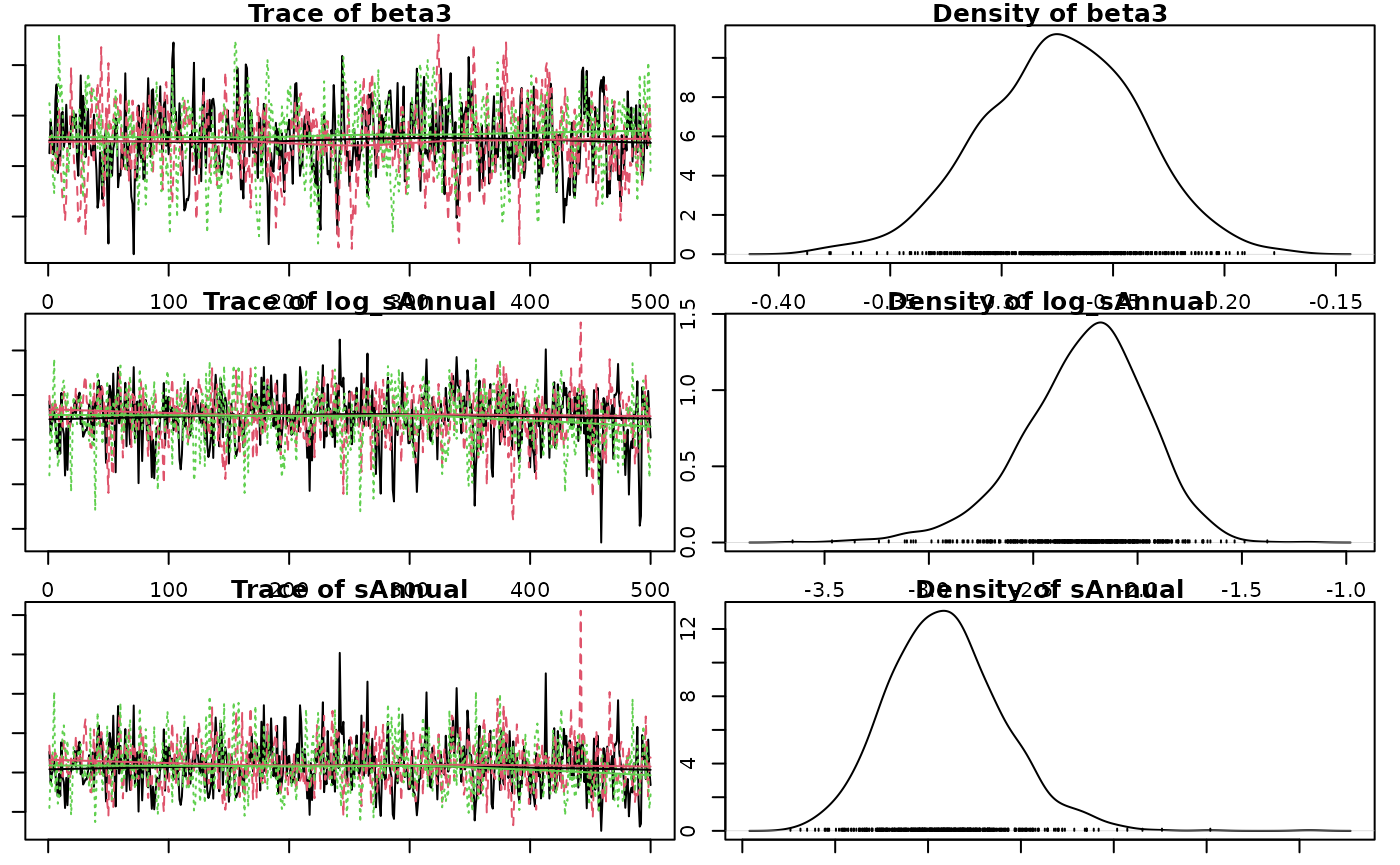
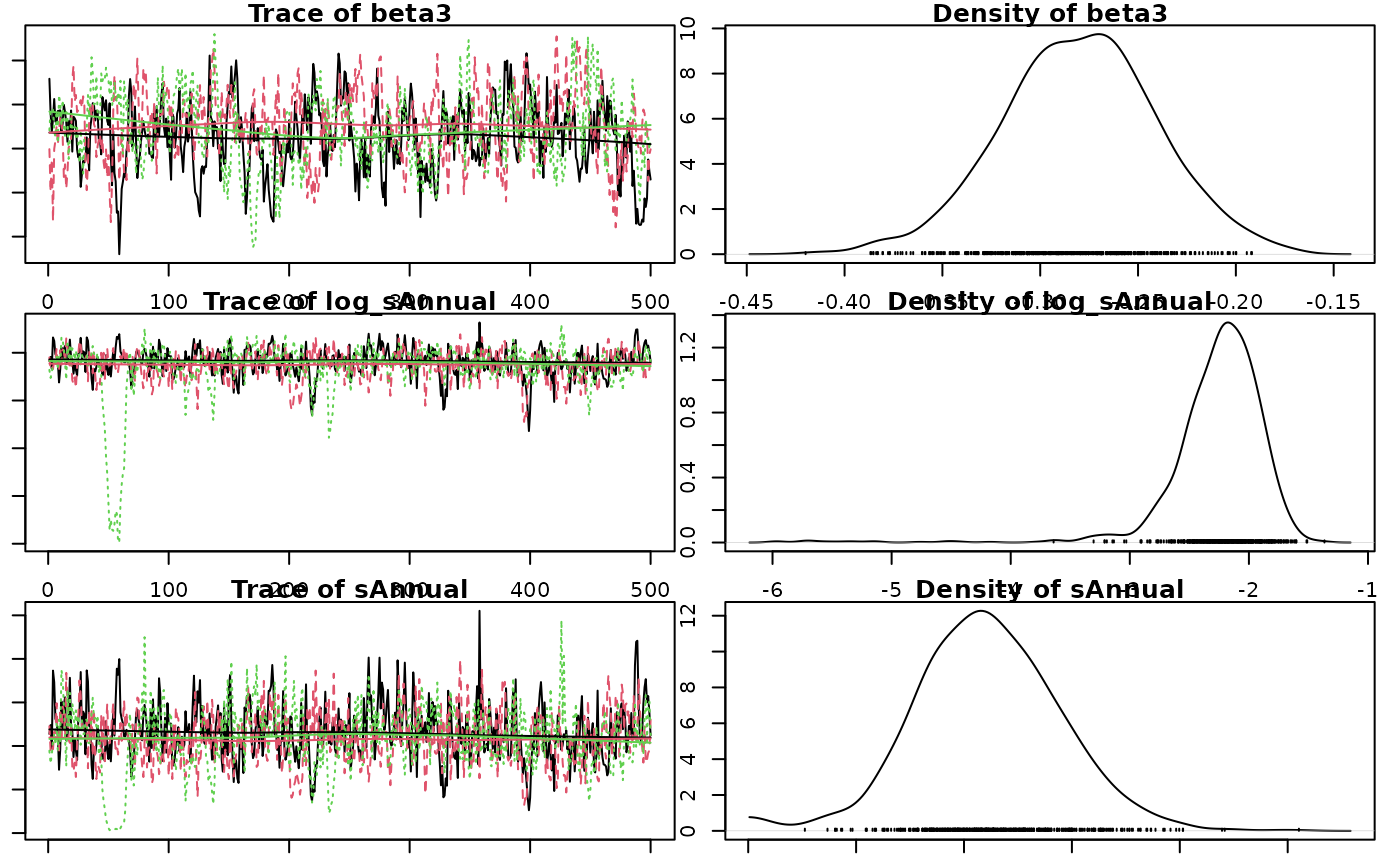
Built site for jmbr@0.0.0.9143: a37af6b

diff --git a/articles/jmbr.html b/articles/jmbr.html
@@ -285,14 +285,14 @@ value and discarding all other values.</p>
 <span><span class="co">#&gt; <span style="color: #949494;"># A tibble: 1 × 8</span></span></span>
 <span><span class="co">#&gt;       n     K nchains niters nthin   ess  rhat converged</span></span>
 <span><span class="co">#&gt;   <span style="color: #949494; font-style: italic;">&lt;int&gt;</span> <span style="color: #949494; font-style: italic;">&lt;int&gt;</span>   <span style="color: #949494; font-style: italic;">&lt;int&gt;</span>  <span style="color: #949494; font-style: italic;">&lt;int&gt;</span> <span style="color: #949494; font-style: italic;">&lt;int&gt;</span> <span style="color: #949494; font-style: italic;">&lt;int&gt;</span> <span style="color: #949494; font-style: italic;">&lt;dbl&gt;</span> <span style="color: #949494; font-style: italic;">&lt;lgl&gt;</span>    </span></span>
-<span><span class="co">#&gt; <span style="color: #BCBCBC;">1</span>    40     6       3    500    10   154  1.18 FALSE</span></span>
+<span><span class="co">#&gt; <span style="color: #BCBCBC;">1</span>    40     6       3    500    10   194  1.02 TRUE</span></span>
 <span><span class="co">#&gt; Warning in value[[3L]](cond): beep() could not play the sound due to the following error:</span></span>
 <span><span class="co">#&gt; Error in play.default(x, rate, ...): no audio drivers are available</span></span>
 <span><span class="va">analysis</span> <span class="op">&lt;-</span> <span class="fu"><a href="https://rdrr.io/pkg/embr/man/reanalyse.html" class="external-link">reanalyse</a></span><span class="op">(</span><span class="va">analysis</span><span class="op">)</span></span>
 <span><span class="co">#&gt; <span style="color: #949494;"># A tibble: 1 × 8</span></span></span>
 <span><span class="co">#&gt;       n     K nchains niters nthin   ess  rhat converged</span></span>
 <span><span class="co">#&gt;   <span style="color: #949494; font-style: italic;">&lt;int&gt;</span> <span style="color: #949494; font-style: italic;">&lt;int&gt;</span>   <span style="color: #949494; font-style: italic;">&lt;int&gt;</span>  <span style="color: #949494; font-style: italic;">&lt;int&gt;</span> <span style="color: #949494; font-style: italic;">&lt;int&gt;</span> <span style="color: #949494; font-style: italic;">&lt;int&gt;</span> <span style="color: #949494; font-style: italic;">&lt;dbl&gt;</span> <span style="color: #949494; font-style: italic;">&lt;lgl&gt;</span>    </span></span>
-<span><span class="co">#&gt; <span style="color: #BCBCBC;">1</span>    40     6       3    500    20   507  1.00 TRUE</span></span>
+<span><span class="co">#&gt; <span style="color: #BCBCBC;">1</span>    40     6       3    500    10   194  1.02 TRUE</span></span>
 <span><span class="co">#&gt; Warning in value[[3L]](cond): beep() could not play the sound due to the following error:</span></span>
 <span><span class="co">#&gt; Error in play.default(x, rate, ...): no audio drivers are available</span></span></code></pre></div>
 <p><strong>Analysis Table:</strong></p>
@@ -342,12 +342,12 @@ between- and within-chain estimates for model parameters.
 <span><span class="co">#&gt; <span style="color: #949494;"># A tibble: 6 × 7</span></span></span>
 <span><span class="co">#&gt;   term        estimate     sd  zscore   lower   upper   pvalue</span></span>
 <span><span class="co">#&gt;   <span style="color: #949494; font-style: italic;">&lt;term&gt;</span>         <span style="color: #949494; font-style: italic;">&lt;dbl&gt;</span>  <span style="color: #949494; font-style: italic;">&lt;dbl&gt;</span>   <span style="color: #949494; font-style: italic;">&lt;dbl&gt;</span>   <span style="color: #949494; font-style: italic;">&lt;dbl&gt;</span>   <span style="color: #949494; font-style: italic;">&lt;dbl&gt;</span>    <span style="color: #949494; font-style: italic;">&lt;dbl&gt;</span></span></span>
-<span><span class="co">#&gt; <span style="color: #BCBCBC;">1</span> alpha         4.26   0.041<span style="text-decoration: underline;">5</span> 103.     4.18    4.34   0.000<span style="text-decoration: underline;">666</span></span></span>
-<span><span class="co">#&gt; <span style="color: #BCBCBC;">2</span> beta1         1.19   0.069<span style="text-decoration: underline;">5</span>  17.2    1.06    1.34   0.000<span style="text-decoration: underline;">666</span></span></span>
-<span><span class="co">#&gt; <span style="color: #BCBCBC;">3</span> beta2        -<span style="color: #BB0000;">0.018</span><span style="color: #BB0000; text-decoration: underline;">0</span> 0.031<span style="text-decoration: underline;">6</span>  -<span style="color: #BB0000;">0.561</span> -<span style="color: #BB0000;">0.076</span><span style="color: #BB0000; text-decoration: underline;">3</span>  0.045<span style="text-decoration: underline;">2</span> 0.566   </span></span>
-<span><span class="co">#&gt; <span style="color: #BCBCBC;">4</span> beta3        -<span style="color: #BB0000;">0.273</span>  0.035<span style="text-decoration: underline;">2</span>  -<span style="color: #BB0000;">7.77</span>  -<span style="color: #BB0000;">0.344</span>  -<span style="color: #BB0000;">0.207</span>  0.000<span style="text-decoration: underline;">666</span></span></span>
-<span><span class="co">#&gt; <span style="color: #BCBCBC;">5</span> log_sAnnual  -<span style="color: #BB0000;">2.22</span>   0.298   -<span style="color: #BB0000;">7.57</span>  -<span style="color: #BB0000;">2.92</span>   -<span style="color: #BB0000;">1.73</span>   0.000<span style="text-decoration: underline;">666</span></span></span>
-<span><span class="co">#&gt; <span style="color: #BCBCBC;">6</span> sAnnual       0.108  0.031<span style="text-decoration: underline;">1</span>   3.52   0.054<span style="text-decoration: underline;">0</span>  0.178  0.000<span style="text-decoration: underline;">666</span></span></span></code></pre></div>
+<span><span class="co">#&gt; <span style="color: #BCBCBC;">1</span> alpha         4.26   0.042<span style="text-decoration: underline;">2</span> 101.     4.17    4.33   0.000<span style="text-decoration: underline;">666</span></span></span>
+<span><span class="co">#&gt; <span style="color: #BCBCBC;">2</span> beta1         1.21   0.077<span style="text-decoration: underline;">4</span>  15.6    1.06    1.36   0.000<span style="text-decoration: underline;">666</span></span></span>
+<span><span class="co">#&gt; <span style="color: #BCBCBC;">3</span> beta2        -<span style="color: #BB0000;">0.017</span><span style="color: #BB0000; text-decoration: underline;">5</span> 0.030<span style="text-decoration: underline;">9</span>  -<span style="color: #BB0000;">0.544</span> -<span style="color: #BB0000;">0.077</span><span style="color: #BB0000; text-decoration: underline;">4</span>  0.047<span style="text-decoration: underline;">0</span> 0.584   </span></span>
+<span><span class="co">#&gt; <span style="color: #BCBCBC;">4</span> beta3        -<span style="color: #BB0000;">0.279</span>  0.039<span style="text-decoration: underline;">7</span>  -<span style="color: #BB0000;">7.06</span>  -<span style="color: #BB0000;">0.359</span>  -<span style="color: #BB0000;">0.203</span>  0.000<span style="text-decoration: underline;">666</span></span></span>
+<span><span class="co">#&gt; <span style="color: #BCBCBC;">5</span> log_sAnnual  -<span style="color: #BB0000;">2.21</span>   0.442   -<span style="color: #BB0000;">5.13</span>  -<span style="color: #BB0000;">3.17</span>   -<span style="color: #BB0000;">1.73</span>   0.000<span style="text-decoration: underline;">666</span></span></span>
+<span><span class="co">#&gt; <span style="color: #BCBCBC;">6</span> sAnnual       0.110  0.033<span style="text-decoration: underline;">8</span>   3.28   0.041<span style="text-decoration: underline;">8</span>  0.178  0.000<span style="text-decoration: underline;">666</span></span></span></code></pre></div>
 <p>The estimate is the <strong>median</strong> by default.</p>
 <p>The zscore is <span class="math inline">mean / sd</span>.</p>
 <div class="sourceCode" id="cb12"><pre class="downlit sourceCode r">
@@ -355,12 +355,12 @@ between- and within-chain estimates for model parameters.
 <span><span class="co">#&gt; <span style="color: #949494;"># A tibble: 6 × 5</span></span></span>
 <span><span class="co">#&gt;   term        estimate   lower   upper svalue</span></span>
 <span><span class="co">#&gt;   <span style="color: #949494; font-style: italic;">&lt;term&gt;</span>         <span style="color: #949494; font-style: italic;">&lt;dbl&gt;</span>   <span style="color: #949494; font-style: italic;">&lt;dbl&gt;</span>   <span style="color: #949494; font-style: italic;">&lt;dbl&gt;</span>  <span style="color: #949494; font-style: italic;">&lt;dbl&gt;</span></span></span>
-<span><span class="co">#&gt; <span style="color: #BCBCBC;">1</span> alpha         4.26    4.18    4.34   10.6  </span></span>
-<span><span class="co">#&gt; <span style="color: #BCBCBC;">2</span> beta1         1.19    1.06    1.34   10.6  </span></span>
-<span><span class="co">#&gt; <span style="color: #BCBCBC;">3</span> beta2        -<span style="color: #BB0000;">0.018</span><span style="color: #BB0000; text-decoration: underline;">0</span> -<span style="color: #BB0000;">0.076</span><span style="color: #BB0000; text-decoration: underline;">3</span>  0.045<span style="text-decoration: underline;">2</span>  0.822</span></span>
-<span><span class="co">#&gt; <span style="color: #BCBCBC;">4</span> beta3        -<span style="color: #BB0000;">0.273</span>  -<span style="color: #BB0000;">0.344</span>  -<span style="color: #BB0000;">0.207</span>  10.6  </span></span>
-<span><span class="co">#&gt; <span style="color: #BCBCBC;">5</span> log_sAnnual  -<span style="color: #BB0000;">2.22</span>   -<span style="color: #BB0000;">2.92</span>   -<span style="color: #BB0000;">1.73</span>   10.6  </span></span>
-<span><span class="co">#&gt; <span style="color: #BCBCBC;">6</span> sAnnual       0.108   0.054<span style="text-decoration: underline;">0</span>  0.178  10.6</span></span></code></pre></div>
+<span><span class="co">#&gt; <span style="color: #BCBCBC;">1</span> alpha         4.26    4.17    4.33   10.6  </span></span>
+<span><span class="co">#&gt; <span style="color: #BCBCBC;">2</span> beta1         1.21    1.06    1.36   10.6  </span></span>
+<span><span class="co">#&gt; <span style="color: #BCBCBC;">3</span> beta2        -<span style="color: #BB0000;">0.017</span><span style="color: #BB0000; text-decoration: underline;">5</span> -<span style="color: #BB0000;">0.077</span><span style="color: #BB0000; text-decoration: underline;">4</span>  0.047<span style="text-decoration: underline;">0</span>  0.775</span></span>
+<span><span class="co">#&gt; <span style="color: #BCBCBC;">4</span> beta3        -<span style="color: #BB0000;">0.279</span>  -<span style="color: #BB0000;">0.359</span>  -<span style="color: #BB0000;">0.203</span>  10.6  </span></span>
+<span><span class="co">#&gt; <span style="color: #BCBCBC;">5</span> log_sAnnual  -<span style="color: #BB0000;">2.21</span>   -<span style="color: #BB0000;">3.17</span>   -<span style="color: #BB0000;">1.73</span>   10.6  </span></span>
+<span><span class="co">#&gt; <span style="color: #BCBCBC;">6</span> sAnnual       0.110   0.041<span style="text-decoration: underline;">8</span>  0.178  10.6</span></span></code></pre></div>
 <p>The s-value is the <strong>suprisal</strong> value, which is a
 measure of directionality with respect to zero.</p>
 <p>The s-value is zero (unsurprising) when <em>p-value</em> = 1.0 and

diff --git a/articles/jmbr.md b/articles/jmbr.md
@@ -221,14 +221,14 @@ analysis <- analyse(model, data = data)
 #> # A tibble: 1 × 8
 #>       n     K nchains niters nthin   ess  rhat converged
 #>   <int> <int>   <int>  <int> <int> <int> <dbl> <lgl>    
-#> 1    40     6       3    500    10   154  1.18 FALSE
+#> 1    40     6       3    500    10   194  1.02 TRUE
 #> Warning in value[[3L]](cond): beep() could not play the sound due to the following error:
 #> Error in play.default(x, rate, ...): no audio drivers are available
 analysis <- reanalyse(analysis)
 #> # A tibble: 1 × 8
 #>       n     K nchains niters nthin   ess  rhat converged
 #>   <int> <int>   <int>  <int> <int> <int> <dbl> <lgl>    
-#> 1    40     6       3    500    20   507  1.00 TRUE
+#> 1    40     6       3    500    10   194  1.02 TRUE
 #> Warning in value[[3L]](cond): beep() could not play the sound due to the following error:
 #> Error in play.default(x, rate, ...): no audio drivers are available
 ```
@@ -274,12 +274,12 @@ coef(analysis)
 #> # A tibble: 6 × 7
 #>   term        estimate     sd  zscore   lower   upper   pvalue
 #>   <term>         <dbl>  <dbl>   <dbl>   <dbl>   <dbl>    <dbl>
-#> 1 alpha         4.26   0.0415 103.     4.18    4.34   0.000666
-#> 2 beta1         1.19   0.0695  17.2    1.06    1.34   0.000666
-#> 3 beta2        -0.0180 0.0316  -0.561 -0.0763  0.0452 0.566   
-#> 4 beta3        -0.273  0.0352  -7.77  -0.344  -0.207  0.000666
-#> 5 log_sAnnual  -2.22   0.298   -7.57  -2.92   -1.73   0.000666
-#> 6 sAnnual       0.108  0.0311   3.52   0.0540  0.178  0.000666
+#> 1 alpha         4.26   0.0422 101.     4.17    4.33   0.000666
+#> 2 beta1         1.21   0.0774  15.6    1.06    1.36   0.000666
+#> 3 beta2        -0.0175 0.0309  -0.544 -0.0774  0.0470 0.584   
+#> 4 beta3        -0.279  0.0397  -7.06  -0.359  -0.203  0.000666
+#> 5 log_sAnnual  -2.21   0.442   -5.13  -3.17   -1.73   0.000666
+#> 6 sAnnual       0.110  0.0338   3.28   0.0418  0.178  0.000666
 ```
 
 The estimate is the **median** by default.
@@ -292,12 +292,12 @@ coef(analysis, simplify = TRUE)
 #> # A tibble: 6 × 5
 #>   term        estimate   lower   upper svalue
 #>   <term>         <dbl>   <dbl>   <dbl>  <dbl>
-#> 1 alpha         4.26    4.18    4.34   10.6  
-#> 2 beta1         1.19    1.06    1.34   10.6  
-#> 3 beta2        -0.0180 -0.0763  0.0452  0.822
-#> 4 beta3        -0.273  -0.344  -0.207  10.6  
-#> 5 log_sAnnual  -2.22   -2.92   -1.73   10.6  
-#> 6 sAnnual       0.108   0.0540  0.178  10.6
+#> 1 alpha         4.26    4.17    4.33   10.6  
+#> 2 beta1         1.21    1.06    1.36   10.6  
+#> 3 beta2        -0.0175 -0.0774  0.0470  0.775
+#> 4 beta3        -0.279  -0.359  -0.203  10.6  
+#> 5 log_sAnnual  -2.21   -3.17   -1.73   10.6  
+#> 6 sAnnual       0.110   0.0418  0.178  10.6
 ```
 
 The s-value is the **suprisal** value, which is a measure of
